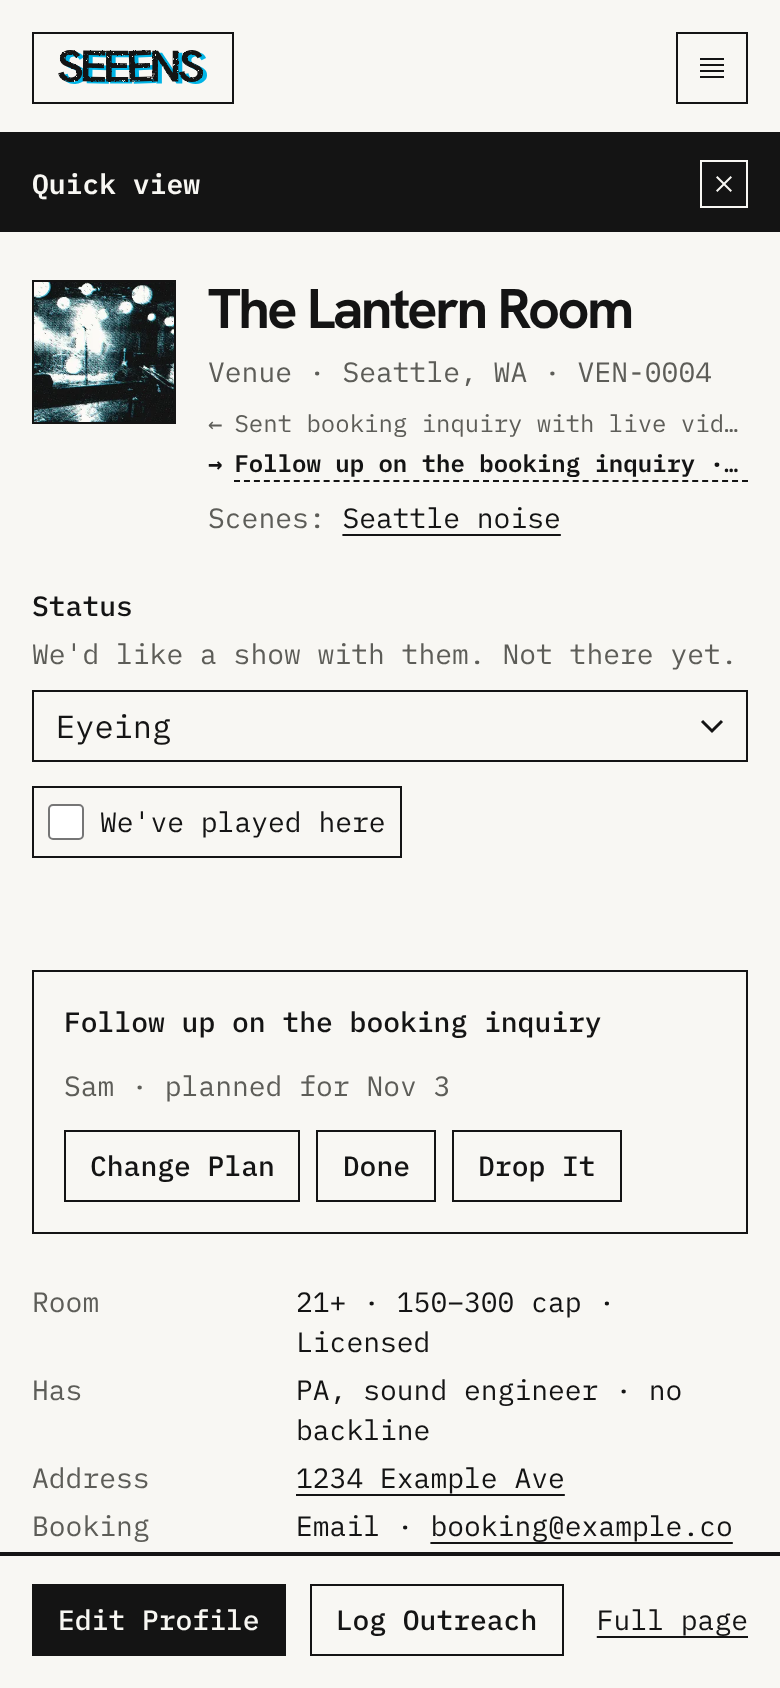
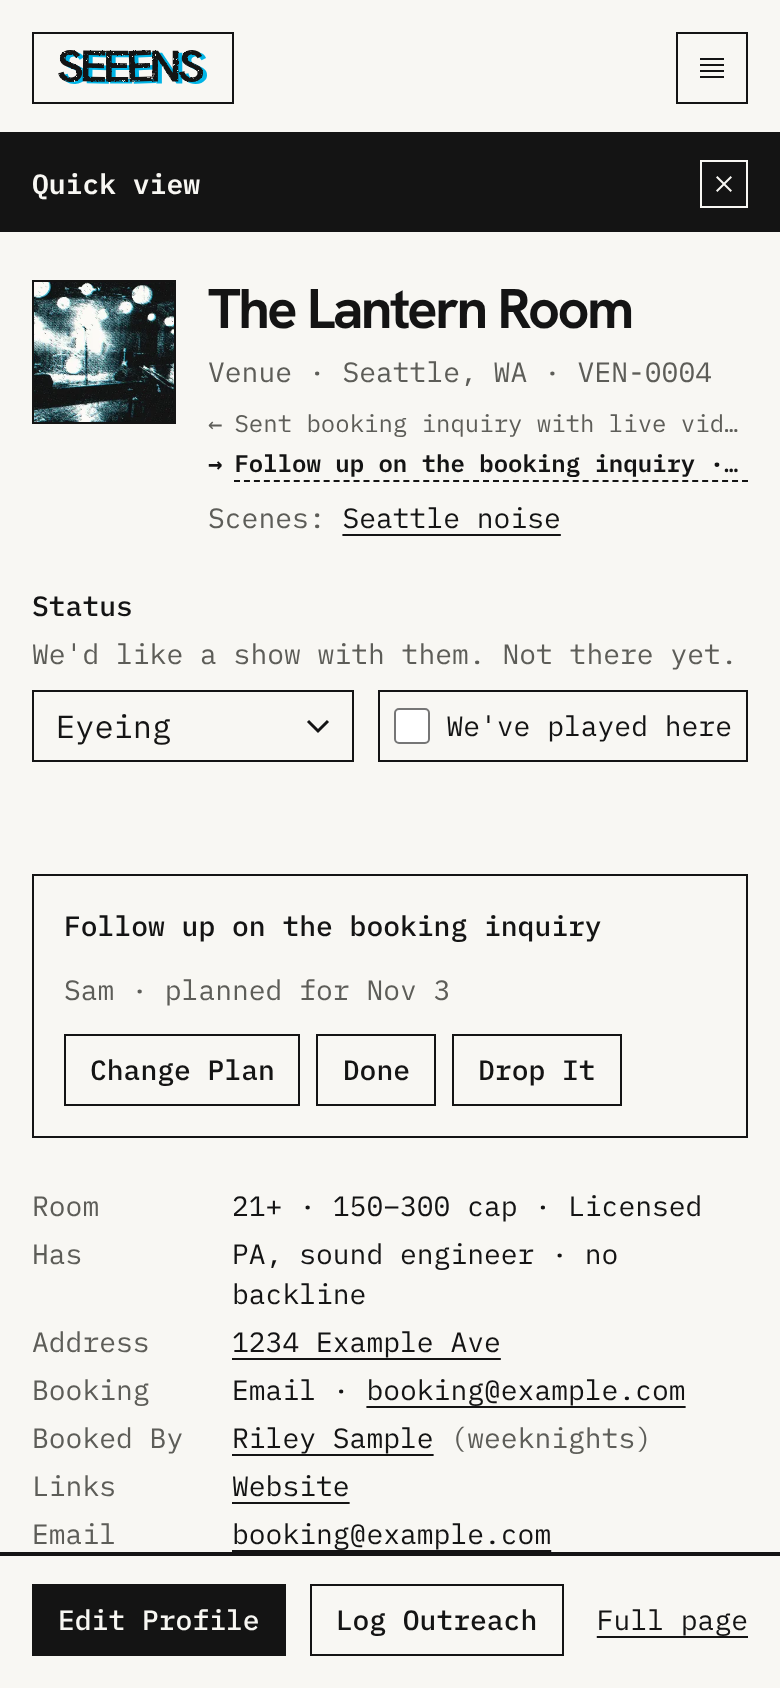
Quick view: status on one row, and the panel slides in and out (#161)
- Status and played-together sit on one row: the select gives up width
  (112px at least, 320 at most) so the checkbox fits beside it, on phones
  too. It still wraps if it can't fit.
- The panel slides in from the right (phones: up from the bottom), 150ms
  ease-out-back, and out with ease-in-back before going back. Reduced
  motion skips both. Surface shadows past the far edges cover the
  overshoot.
- The frame moved into a layout above [id], so switching connections
  swaps the contents without replaying the slide. The Log Outreach form
  is keyed to the connection it was opened for.

Claude-Session: https://claude.ai/code/session_01SMP6NnyPkRALtU7G1T7uNS

diff --git a/src/components/quick-view-frame.tsx b/src/components/quick-view-frame.tsx
@@ -3,7 +3,7 @@
 import { Close } from "@carbon/icons-react";
 import { useRouter } from "next/navigation";
 import { LogForm } from "@/components/outreach-panel";
-import { createContext, useContext, useEffect, useLayoutEffect, useRef, useState, type ReactNode } from "react";
+import { createContext, useContext, useEffect, useEffectEvent, useLayoutEffect, useRef, useState, type ReactNode } from "react";
 
 // The quick view's shell (#126): an ink title bar with Close, then the body
 // and footer the server renders. Not a dialog: the directory stays usable
@@ -13,16 +13,33 @@ import { createContext, useContext, useEffect, useLayoutEffect, useRef, useState
 // connection with a push and switch with a replace.
 export function QuickViewFrame({ children }: { children: ReactNode }) {
   const router = useRouter();
-  const [logging, setLogging] = useState(false);
+  // Which connection the Log Outreach form is open for. The frame stays
+  // while you switch connections, so the form only shows on the one it was
+  // opened for.
+  const [logging, setLogging] = useState<string | null>(null);
+  const aside = useRef<HTMLElement>(null);
 
   // Tell the directory to make room while this panel is showing. Next keeps
   // a closed panel in the page, hidden, for Back and Forward; effects only
-  // run while it's visible, so this follows what's on screen.
+  // run while it's visible, so this follows what's on screen. Shown again
+  // (Forward), it slides back in rather than staying where it slid out.
   useLayoutEffect(() => {
     const shell = document.querySelector(".directory-shell");
     shell?.setAttribute("data-quick-view", "");
+    aside.current?.removeAttribute("data-closing");
     return () => shell?.removeAttribute("data-quick-view");
   }, []);
+
+  // Slides out (150ms, ease-in-back), then goes back to the directory. The
+  // slide is CSS on data-closing; with reduced motion it just goes.
+  function close() {
+    const el = aside.current;
+    if (!el || el.hasAttribute("data-closing")) return;
+    if (matchMedia("(prefers-reduced-motion: reduce)").matches) return router.back();
+    el.setAttribute("data-closing", "");
+    setTimeout(() => router.back(), 150);
+  }
+  const closeOnEscape = useEffectEvent(close);
 
   useEffect(() => {
     function onKey(e: KeyboardEvent) {
@@ -30,18 +47,18 @@ export function QuickViewFrame({ children }: { children: ReactNode }) {
       // Escape in a field or an open dialog belongs to that field or dialog.
       const t = e.target as HTMLElement | null;
       if (t?.closest("input, textarea, select, dialog[open]")) return;
-      router.back();
+      closeOnEscape();
     }
     document.addEventListener("keydown", onKey);
     return () => document.removeEventListener("keydown", onKey);
-  }, [router]);
+  }, []);
 
   return (
     <LogContext value={{ logging, setLogging }}>
-      <aside className="quick-view" aria-label="Quick view">
+      <aside ref={aside} className="quick-view" aria-label="Quick view">
         <div className="quick-view-title">
           <span className="text-sm font-semibold">Quick view</span>
-          <button type="button" className="quick-view-close" onClick={() => router.back()}>
+          <button type="button" className="quick-view-close" onClick={close}>
             <Close size={16} aria-hidden="true" />
             <span className="sr-only">Close quick view</span>
           </button>
@@ -53,15 +70,11 @@ export function QuickViewFrame({ children }: { children: ReactNode }) {
 }
 
 // Log Outreach sits in the footer; its form opens in the body, above the
-// last entry. They share whether it's open.
-const LogContext = createContext<{ logging: boolean; setLogging: (v: boolean) => void }>({
-  logging: false,
+// last entry. They share which connection it's open for.
+const LogContext = createContext<{ logging: string | null; setLogging: (id: string | null) => void }>({
+  logging: null,
   setLogging: () => {},
 });
-
-export function useQuickLog() {
-  return useContext(LogContext);
-}
 
 /** Moves focus to the heading when a connection opens, so keyboard and screen reader users land in the panel. */
 export function QuickViewHeading({ id, children }: { id: string; children: ReactNode }) {
@@ -77,10 +90,11 @@ export function QuickViewHeading({ id, children }: { id: string; children: React
 }
 
 /** The footer's Log Outreach button: opens the form in the body. */
-export function LogOutreachButton() {
-  const { logging, setLogging } = useQuickLog();
+export function LogOutreachButton({ connectionId }: { connectionId: string }) {
+  const { logging, setLogging } = useContext(LogContext);
+  const open = logging === connectionId;
   return (
-    <button type="button" className="button-secondary" aria-expanded={logging} onClick={() => setLogging(!logging)}>
+    <button type="button" className="button-secondary" aria-expanded={open} onClick={() => setLogging(open ? null : connectionId)}>
       Log Outreach
     </button>
   );
@@ -88,6 +102,8 @@ export function LogOutreachButton() {
 
 /** Where the Log Outreach form opens, above the last entry. */
 export function QuickLog({ connectionId, today }: { connectionId: string; today: string }) {
-  const { logging, setLogging } = useQuickLog();
-  return logging ? <LogForm connectionId={connectionId} today={today} onClose={() => setLogging(false)} /> : null;
+  const { logging, setLogging } = useContext(LogContext);
+  return logging === connectionId ? (
+    <LogForm connectionId={connectionId} today={today} onClose={() => setLogging(null)} />
+  ) : null;
 }

diff --git a/src/components/quick-status.tsx b/src/components/quick-status.tsx
@@ -101,13 +101,15 @@ export function QuickStatus({
         <p id="quick-status-hint" className="-mt-1 text-sm text-muted">
           {statusHint(shown.status, type)}
         </p>
+        {/* One row: the select gives up width so "played together" fits
+            beside it (the quick view is 480px). It wraps only when it can't. */}
         <div className="flex flex-wrap items-center gap-3">
           <select
             id="quick-status"
             value={shown.status}
             onChange={(e) => save({ status: e.target.value as ConnectionStatus })}
             aria-describedby="quick-status-hint"
-            className="field w-full sm:w-80"
+            className="field min-w-28 flex-1 basis-28 sm:max-w-80"
           >
             {STATUSES.map((st) => (
               <option key={st} value={st}>
@@ -115,7 +117,7 @@ export function QuickStatus({
               </option>
             ))}
           </select>
-          <label className="choice">
+          <label className="choice shrink-0">
             <input
               ref={played}
               type="checkbox"

diff --git a/src/app/globals.css b/src/app/globals.css
@@ -1682,6 +1682,31 @@
       width: var(--quick-view-w);
       border-left: 2px solid var(--color-border-strong);
     }
+    /* Slides in from the right (phones: up from the bottom), 150ms with
+       ease-out-back's small overshoot, and out with ease-in-back. The
+       shadows paint surface past the far edges, so the overshoot never
+       shows a gap at the side or bottom of the window. */
+    --qv-away: 0 100%;
+    @media (width >= 48rem) {
+      --qv-away: 100% 0;
+    }
+    translate: 0 0;
+    box-shadow:
+      4rem 0 0 0 var(--color-bg-surface),
+      0 4rem 0 0 var(--color-bg-surface);
+    transition: translate 150ms cubic-bezier(0.34, 1.56, 0.64, 1);
+    &[data-closing] {
+      translate: var(--qv-away);
+      transition-timing-function: cubic-bezier(0.36, 0, 0.66, -0.56);
+    }
+    @media (prefers-reduced-motion: reduce) {
+      transition: none;
+    }
+  }
+  @starting-style {
+    .quick-view {
+      translate: var(--qv-away);
+    }
   }
   .quick-view-title {
     display: flex;

diff --git a/src/app/(app)/(directory)/@panel/(.)connections/[id]/page.tsx b/src/app/(app)/(directory)/@panel/(.)connections/[id]/page.tsx
@@ -1,16 +1,13 @@
 import { Suspense } from "react";
 import { QuickView } from "@/components/quick-view";
-import { QuickViewFrame } from "@/components/quick-view-frame";
 
-// A connection opened from the directory: the quick view panel (#126).
-// Loaded directly (a refresh, a shared link), /connections/[id] shows the
-// full page instead.
+// A connection opened from the directory: the quick view panel (#126), in
+// the frame from the layout above. Loaded directly (a refresh, a shared
+// link), /connections/[id] shows the full page instead.
 export default function QuickViewPage({ params }: PageProps<"/connections/[id]">) {
   return (
-    <QuickViewFrame>
-      <Suspense fallback={<p className="quick-view-body text-muted">Loading…</p>}>
-        <QuickView params={params} />
-      </Suspense>
-    </QuickViewFrame>
+    <Suspense fallback={<p className="quick-view-body text-muted">Loading…</p>}>
+      <QuickView params={params} />
+    </Suspense>
   );
 }

diff --git a/src/components/quick-view.tsx b/src/components/quick-view.tsx
@@ -105,7 +105,7 @@ export async function QuickView({ params }: { params: Promise<{ id: string }> })
         <Link href={`/connections/${c.id}/edit`} className="button-primary">
           Edit Profile<span className="sr-only"> of {c.name}</span>
         </Link>
-        {c.is_us ? null : <LogOutreachButton />}
+        {c.is_us ? null : <LogOutreachButton connectionId={c.id} />}
         {/* A plain link: the full page loads fresh instead of reopening this panel. */}
         <a href={`/connections/${c.id}`} className="link ml-auto text-sm">
           Full page

diff --git a/src/app/(app)/(directory)/@panel/(.)connections/layout.tsx b/src/app/(app)/(directory)/@panel/(.)connections/layout.tsx
@@ -1,0 +1,8 @@
+import type { ReactNode } from "react";
+import { QuickViewFrame } from "@/components/quick-view-frame";
+
+// The panel's frame lives above [id], so switching connections swaps what's
+// inside without sliding the panel out and back in.
+export default function QuickViewLayout({ children }: { children: ReactNode }) {
+  return <QuickViewFrame>{children}</QuickViewFrame>;
+}
